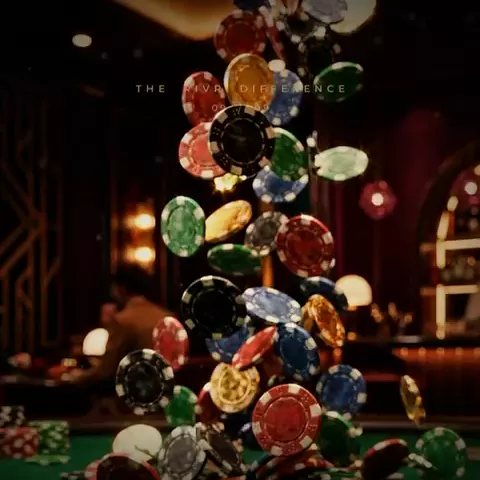
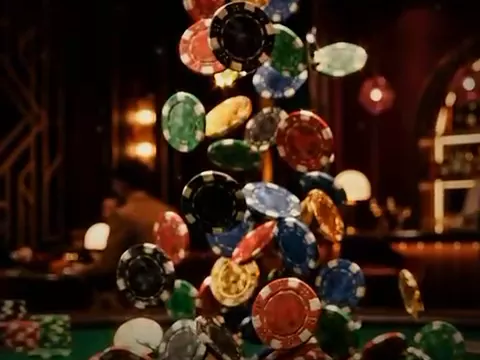
fix(web): legible media notes, a caption-free closing still, a focus ring on cream
From review:
- the focus ring is ink on the cream bands, where cream on cream vanished
- the media note sits on its own dark label, so it reads over footage
- the closing band's chips are cut clear of the teaser's own captions,
  and the band says "Concept visualisation" (statement blocks gain a note)
- the 404 and 503 pages carry the footer
- an e2e step proves the loop gives way to its still under reduced motion
- pgTAP pins the seed's new home page and block kinds; the contracts
  README lists the new kinds and the media path rule
- the website's overlay may fade to the foot of a photo tile (decision 0118)
- a stray temp file removed; the rules file keeps its mode

diff --git a/packages/ui/src/StatementBlock/StatementBlock.tsx b/packages/ui/src/StatementBlock/StatementBlock.tsx
@@ -1,5 +1,6 @@
 import { Button } from '../Button/Button.tsx';
 import { Heading } from '../Heading/Heading.tsx';
+import { MediaNote } from '../internal/webMedia.tsx';
 import { Text } from '../Text/Text.tsx';
 
 export interface StatementBlockProps {
@@ -12,19 +13,22 @@ export interface StatementBlockProps {
   action?: { readonly label: string; readonly href: string } | undefined;
   /** One of the club's stills behind the lines, darkened so they read (decision 0118). */
   image?: string | undefined;
+  /** Said in the band's corner when the still is not the room itself: `Concept visualisation`. */
+  note?: string | undefined;
 }
 
 /**
  * A website block of a line or three set large across the page (#441): the club's manifesto, or its last
  * word before the footer, over a darkened still of the room when it has one.
  */
-export function StatementBlock({ eyebrow, lines, text, action, image }: StatementBlockProps) {
+export function StatementBlock({ eyebrow, lines, text, action, image, note }: StatementBlockProps) {
   return (
     <section className="relative overflow-hidden">
       {image ? (
         <>
           <img src={image} alt="" className="absolute inset-0 size-full object-cover" />
           <div className="absolute inset-0 bg-green-black opacity-muted" />
+          {note ? <MediaNote>{note}</MediaNote> : null}
         </>
       ) : null}
       <div className="relative mx-auto flex max-w-console flex-col items-center gap-6 px-6 py-24 text-center tablet:py-32">

diff --git a/apps/web/src/features/site/components/SitePage.tsx b/apps/web/src/features/site/components/SitePage.tsx
@@ -48,8 +48,8 @@ function MediaBlock({ block, link }: { block: Extract<SiteBlock, { kind: 'hero' 
       return <HeroBlock eyebrow={eyebrow} heading={heading} text={text} action={link(action)} video={video} note={note} />;
     }
     case 'statement': {
-      const { eyebrow, lines, text, action, image } = block.content;
-      return <StatementBlock eyebrow={eyebrow} lines={lines} text={text} action={link(action)} image={image} />;
+      const { eyebrow, lines, text, action, image, note } = block.content;
+      return <StatementBlock eyebrow={eyebrow} lines={lines} text={text} action={link(action)} image={image} note={note} />;
     }
     case 'gallery': {
       const { eyebrow, heading, intro, items, note } = block.content;
@@ -84,7 +84,7 @@ function Block({ block, page, link }: { block: SiteBlock; page: SitePageData; li
 }
 
 /** The footer every page carries: where the club is, how to reach it, and its 18+ line (#441). */
-function Footer() {
+export function Footer() {
   const links = [
     { label: t('web.footer.instagram'), href: 'https://www.instagram.com/rivr.pokerclub/' },
     { label: t('web.footer.email'), href: 'mailto:info@rivrpoker.com' },

diff --git a/packages/ui/src/StatementBlock/StatementBlock.test.tsx b/packages/ui/src/StatementBlock/StatementBlock.test.tsx
@@ -12,10 +12,16 @@ describe('StatementBlock', () => {
     expect(screen.getByRole('link', { name: 'Join RIVR' })).toHaveAttribute('href', '#sign-in');
   });
 
-  it('puts its still behind the lines, as decoration only', () => {
-    const { container } = renderIn(<StatementBlock lines={['Hold your nerve.']} image="/media/room.webp" />);
+  it('puts its still behind the lines, as decoration only, and says what it is', () => {
+    const { container } = renderIn(<StatementBlock lines={['Hold your nerve.']} image="/media/chips.webp" note="Concept visualisation" />);
     expect(container.querySelector('img')).toHaveAttribute('alt', '');
     expect(screen.queryByRole('img')).toBeNull();
+    expect(screen.getByText('Concept visualisation')).toBeInTheDocument();
+  });
+
+  it('says nothing about a still it does not have', () => {
+    renderIn(<StatementBlock lines={['Not luck.']} note="Concept visualisation" />);
+    expect(screen.queryByText('Concept visualisation')).toBeNull();
   });
 
   it('has no accessibility violations', async () => {

diff --git a/apps/web/src/features/site/components/MissingPage.tsx b/apps/web/src/features/site/components/MissingPage.tsx
@@ -3,6 +3,7 @@ import type { Attribution } from '@rivr/contracts';
 import { t } from '@rivr/i18n';
 import { HeroBlock, WebShell } from '@rivr/ui';
 import { siteHref } from '../links.ts';
+import { Footer } from './SitePage.tsx';
 
 interface MissingPageProps {
   /** The content could not be read, rather than there being no such page. */
@@ -14,7 +15,7 @@ interface MissingPageProps {
 /** No page to show: a draft or an address the website does not have, or content that could not be read. */
 export function MissingPage({ failed, attribution }: MissingPageProps) {
   return (
-    <WebShell links={[]} homeHref={siteHref('home', attribution)}>
+    <WebShell links={[]} homeHref={siteHref('home', attribution)} footer={<Footer />}>
       {failed ? (
         <HeroBlock heading={t('web.unavailableTitle')} text={t('web.unavailable')} />
       ) : (

diff --git a/packages/ui/src/internal/webMedia.tsx b/packages/ui/src/internal/webMedia.tsx
@@ -3,9 +3,9 @@
  * A video sits over its still, which shows when the visitor asks for less motion (styles.css).
  */
 
-/** Beside media that is not the room itself, as the teaser says it: `Concept visualisation`. */
+/** Beside media that is not the room itself, as the teaser says it: `Concept visualisation`. On its own dark label, so it reads over any footage. */
 export function MediaNote({ children }: { children: string }) {
-  return <span className="absolute bottom-3 end-3 font-text text-12 uppercase tracking-wide text-cream opacity-muted">{children}</span>;
+  return <span className="absolute bottom-3 end-3 rounded-sm bg-green-black px-2 py-1 font-text text-12 uppercase tracking-wide text-cream">{children}</span>;
 }
 
 /** A muted loop of the room, filling its frame, over its first frame. */

diff --git a/e2e/flows/website.spec.ts b/e2e/flows/website.spec.ts
@@ -38,6 +38,11 @@ test.describe('Website', () => {
     // On a phone the page fits the screen: nothing scrolls sideways.
     await page.setViewportSize(VIEWPORT.player);
     await expect.poll(() => page.evaluate(() => document.documentElement.scrollWidth)).toBeLessThanOrEqual(VIEWPORT.player.width);
+
+    // A visitor who asks for less motion sees the room's still, not the loop.
+    await page.emulateMedia({ reducedMotion: 'reduce' });
+    await expect(page.locator('video[data-web-video]')).toBeHidden();
+    await expect(page.locator('img[src="/media/hero-room.webp"]')).toBeVisible();
   });
 
   test('a draft page is not there, and nor is the front page by another address', async ({ request }) => {

diff --git a/packages/tokens/src/contrast.test.ts b/packages/tokens/src/contrast.test.ts
@@ -44,6 +44,10 @@ describe('non-text contrast is at least 3:1', () => {
     expect(contrastRatio(hex('color.focus'), hex('color.raised'))).toBeGreaterThanOrEqual(3);
   });
 
+  it('keeps the focus ring visible on the website\'s cream bands, where it is ink', () => {
+    expect(contrastRatio(hex('color.ink'), hex('color.cream'))).toBeGreaterThanOrEqual(3);
+  });
+
   it.each(['1', '2', '3', '4', '5', '6'])('chart colour %s reads on green', (series) => {
     expect(contrastRatio(hex(`color.chart.${series}`), hex('color.surface'))).toBeGreaterThanOrEqual(3);
   });

diff --git a/apps/web/src/features/site/components/Website.test.tsx b/apps/web/src/features/site/components/Website.test.tsx
@@ -15,6 +15,7 @@ describe('the website without a page to show', () => {
     render(<Website view={missing(404)} />);
     expect(screen.getByRole('heading', { level: 1, name: 'Page not found' })).toBeDefined();
     expect(screen.getByRole('link', { name: 'RIVR Poker Club' }).getAttribute('href')).toBe('/?ref=FRIEND1');
+    expect(screen.getByText('Strictly 18+. Poker is a game of skill.')).toBeDefined();
   });
 
   it('says so when the content cannot be read, and the way home keeps the code', () => {

diff --git a/packages/contracts/src/site.ts b/packages/contracts/src/site.ts
@@ -62,6 +62,7 @@ export const siteBlockSchema = z.discriminatedUnion('kind', [
       text: z.string().trim().max(300).optional(),
       action: actionSchema.optional(),
       image: imageSchema.optional(),
+      note: mediaNoteSchema,
     }),
   }),
   // Photo tiles, each with a title and a line: the room and what the club does for its members.

diff --git a/packages/ui/src/styles.css b/packages/ui/src/styles.css
@@ -124,6 +124,7 @@
   --rivr-color-content-muted: var(--rivr-color-ink-muted);
   --rivr-color-accent: var(--rivr-color-green);
   --rivr-color-raised: var(--rivr-color-cream);
+  --rivr-color-focus: var(--rivr-color-ink);
 }
 
 /* A website video stops for a visitor who asks for less motion: its still shows instead (decision 0118). */

diff --git a/packages/ui/src/StatementBlock/StatementBlock.stories.tsx b/packages/ui/src/StatementBlock/StatementBlock.stories.tsx
@@ -25,7 +25,8 @@ export const OverAStill: Story = {
     lines: ['Hold your nerve.'],
     text: 'Upper floor, Glaza, M3M 65th Avenue, Gurugram.',
     action: { label: 'Join RIVR', href: '#sign-in' },
-    image: '/media/room.webp',
+    image: '/media/chips.webp',
+    note: 'Concept visualisation',
   },
 };
 

diff --git a/packages/contracts/README.md b/packages/contracts/README.md
@@ -47,7 +47,7 @@ Import from `@rivr/contracts`, or one module at a time (`@rivr/contracts/ids`).
 | `INBOX_CHANNELS`, `inboxChannelSchema`, `InboxChannel` | Instagram, Facebook and WhatsApp. |
 | `ATTRIBUTION_PARAMS`, `attributionFrom`, `attributionSearch`, `Attribution`, `AttributionField` | The referral, creator and UTM codes a link carries (`ref`, `creator`, `utm_*`): read from a query string, malformed ones dropped, and written back. `@rivr/contracts/attribution` holds no Zod. |
 | `returnPathFrom`, `returnSearchFrom`, `ReturnSearch` | The screen a link pointed at, carried through sign-in and sign-up as `?next=`: only a path in the same app (letters, digits, hyphens and slashes), never another site. `returnSearchFrom` is a route's `validateSearch` and always sets `next`, so an outside address is replaced. `@rivr/contracts/returnPath` holds no Zod. |
-| `siteBlockSchema`, `SiteBlock`, `SITE_BLOCK_KINDS`, `PLAYER_DESTINATIONS`, `PlayerDestination` | A website block as `site_block.content` holds it, by kind (`hero`, `text`, `rules`, `faq`, `careers`, `map`, `links`, and the live `games` and `calendar`, whose rows come from public views); an optional field left blank is not shown. A map's directions go only to a Google Maps page over HTTPS. A block links into the player app only by a named destination (`sign-up`, `academy`, `waitlist`, which is Home), never a raw address. Also at `@rivr/contracts/site`. |
+| `siteBlockSchema`, `SiteBlock`, `SITE_BLOCK_KINDS`, `PLAYER_DESTINATIONS`, `PlayerDestination` | A website block as `site_block.content` holds it, by kind (`hero`, `statement`, `gallery`, `feature`, `text`, `rules`, `faq`, `careers`, `map`, `links`, and the live `games` and `calendar`, whose rows come from public views); an optional field left blank is not shown. A map's directions go only to a Google Maps page over HTTPS. A block links into the player app only by a named destination (`sign-up`, `academy`, `waitlist`, which is Home), never a raw address. Also at `@rivr/contracts/site`. Media (a hero's loop and still, a statement's, gallery's or feature's picture) is only a path to the website's own files, `/media/<name>.webp` or `.mp4`: never another site, never a path that climbs (decision 0118). |
 
 Feature keys, roles and settings schemas live here too, each documented in its own file.
 
